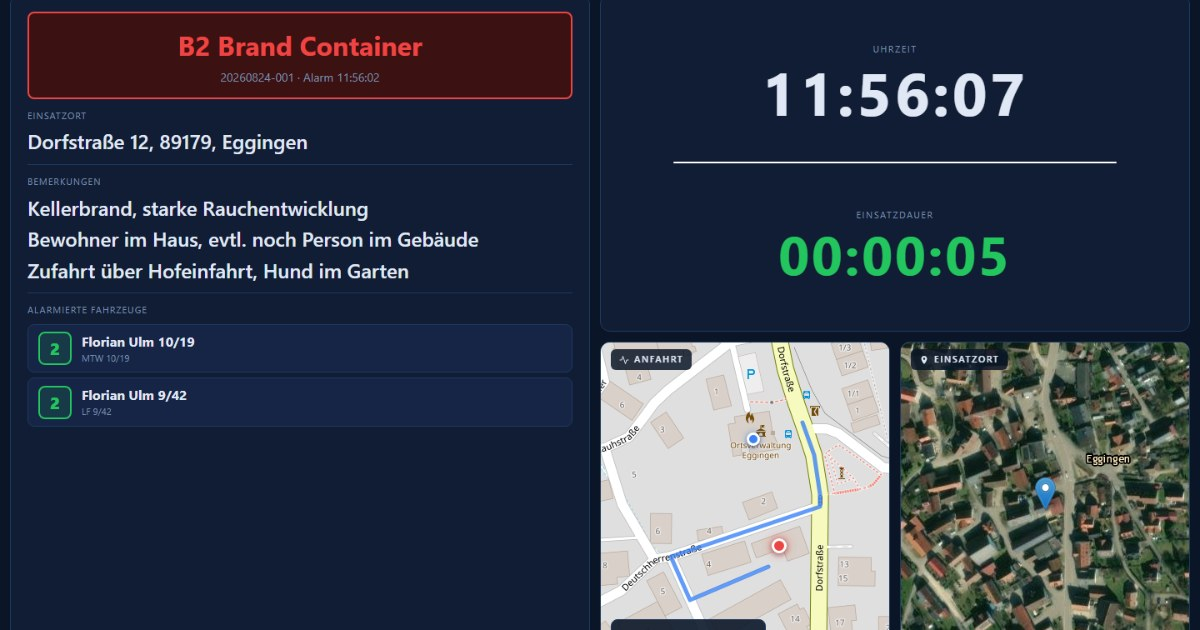
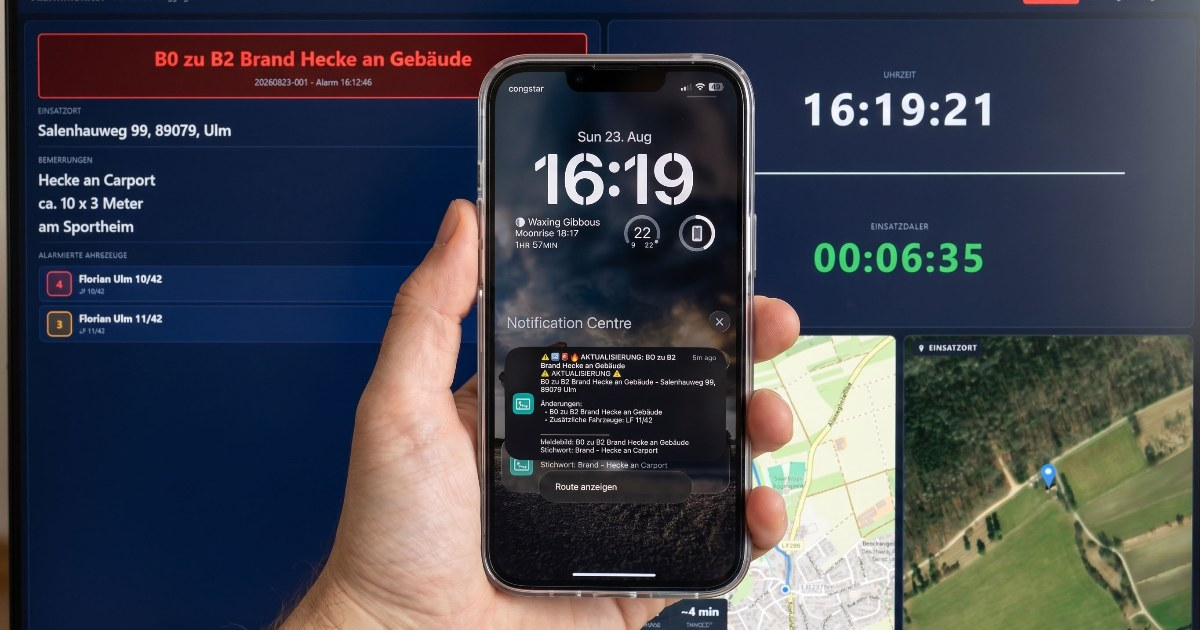
feat: echtes Hero-Bild und echte Silent-Print-Installations-Screenshots
- Startseite zeigt jetzt ein echtes Foto (Alarmmonitor + ntfy-Push
  aufs Handy) statt reinem Text; dient auch als Open-Graph-Bild
- Silent-Print-App frisch deinstalliert/neu installiert und dabei
  echte, eng zugeschnittene Screenshots von Einstellungsfenster und
  Rechtsklick-Menü aufgenommen (keine anderen Fenster sichtbar)
- Neue CSS-Klasse "shot small" für kleine UI-Screenshots in
  Originalgröße statt verschwommen hochskaliert

diff --git a/silent-print-einrichten.html b/silent-print-einrichten.html
@@ -109,15 +109,21 @@
         </li>
         <li>
           <h3>Läuft im Hintergrund</h3>
-          <p>Die App startet als kleines Symbol im Infobereich der Taskleiste (System Tray, unten rechts neben der Uhr – ggf. unter dem Pfeil „Ausgeblendete Symbole einblenden“ zu finden). Es öffnet sich kein sichtbares Fenster.</p>
+          <p>Die App startet als kleines Symbol im Infobereich der Taskleiste (System Tray, unten rechts neben der Uhr – ggf. unter dem Pfeil „Ausgeblendete Symbole einblenden“ zu finden). Es öffnet sich kein sichtbares Fenster – <strong>außer</strong> beim allerersten Start: Ist noch kein Drucker eingestellt, öffnen sich die Einstellungen automatisch (siehe nächster Schritt).</p>
         </li>
         <li>
           <h3>Drucker einstellen</h3>
-          <p>Rechtsklick auf das Tray-Symbol → <strong>„Einstellungen“</strong>. Dort wählst du den gewünschten Drucker aus der Liste, kannst die Ränder anpassen und <strong>„Bei Windows-Start automatisch starten“</strong> aktivieren, damit die App nach einem Neustart des PCs nicht vergessen wird. Mit <strong>„Speichern“</strong> übernehmen.</p>
+          <p>In den Einstellungen wählst du den gewünschten Drucker aus der Liste, kannst die Ränder anpassen und <strong>„Bei Windows-Start automatisch starten“</strong> aktivieren, damit die App nach einem Neustart des PCs nicht vergessen wird. Mit <strong>„Speichern“</strong> übernehmen. Später erreichst du dieses Fenster jederzeit wieder über Rechtsklick auf das Tray-Symbol → <strong>„Einstellungen“</strong>.</p>
+          <figure class="shot">
+            <img src="assets/img/silent-print-settings.png" alt="Einstellungsfenster der Silent-Print-App mit Drucker-Auswahl, Port, Autostart und Rändern" loading="lazy" />
+          </figure>
         </li>
         <li>
           <h3>Testdruck</h3>
-          <p>Im selben Rechtsklick-Menü gibt es „Testdruck“ – druckt sofort eine Testseite auf dem eingestellten Drucker. Alternativ testest du direkt aus ILS Eggingen heraus (nächster Schritt).</p>
+          <p>Rechtsklick auf das Tray-Symbol öffnet das Menü mit <strong>„Testdruck“</strong> – druckt sofort eine Testseite auf dem eingestellten Drucker. Alternativ testest du direkt aus ILS Eggingen heraus (nächster Schritt).</p>
+          <figure class="shot small">
+            <img src="assets/img/silent-print-contextmenu.png" alt="Rechtsklick-Menü des Tray-Symbols mit den Einträgen Einstellungen, Testdruck, Über und Beenden" loading="lazy" />
+          </figure>
         </li>
       </ol>
 

diff --git a/index.html b/index.html
@@ -81,6 +81,11 @@
       <h1 class="page-title">ILS Eggingen – Dokumentation</h1>
       <p class="page-lede">ILS Eggingen ist eine <strong>Übungsleitstelle</strong> zum Simulieren von Alarmierung und Einsatzführung – gedacht für Jugendfeuerwehren, Ausbildung und Veranstaltungen wie Tage der offenen Tür. Diese Seiten erklären die Benutzung: Zugang bekommen, die eigene Übungsleitstelle einrichten und Übungseinsätze durchführen.</p>
 
+      <figure class="shot">
+        <img src="assets/img/hero-ntfy.jpg" alt="Alarmmonitor im Hintergrund, im Vordergrund ein Smartphone mit einer ntfy-Push-Benachrichtigung zum selben Einsatz" loading="lazy" />
+        <figcaption>Alarmierung auf dem Monitor – und in Echtzeit als Push-Benachrichtigung auf dem Handy.</figcaption>
+      </figure>
+
       <div class="toc-group">
         <h2 id="erste-schritte">Erste Schritte</h2>
         <ul class="toc-list">

diff --git a/assets/css/style.css b/assets/css/style.css
@@ -387,6 +387,8 @@ figure.shot {
   background: var(--bg-sunken);
 }
 figure.shot img { width: 100%; }
+figure.shot.small { display: inline-block; background: var(--surface); }
+figure.shot.small img { width: auto; max-width: 100%; image-rendering: -webkit-optimize-contrast; }
 figure.shot figcaption {
   padding: 0.6rem 0.9rem;
   font-size: 0.83rem;
